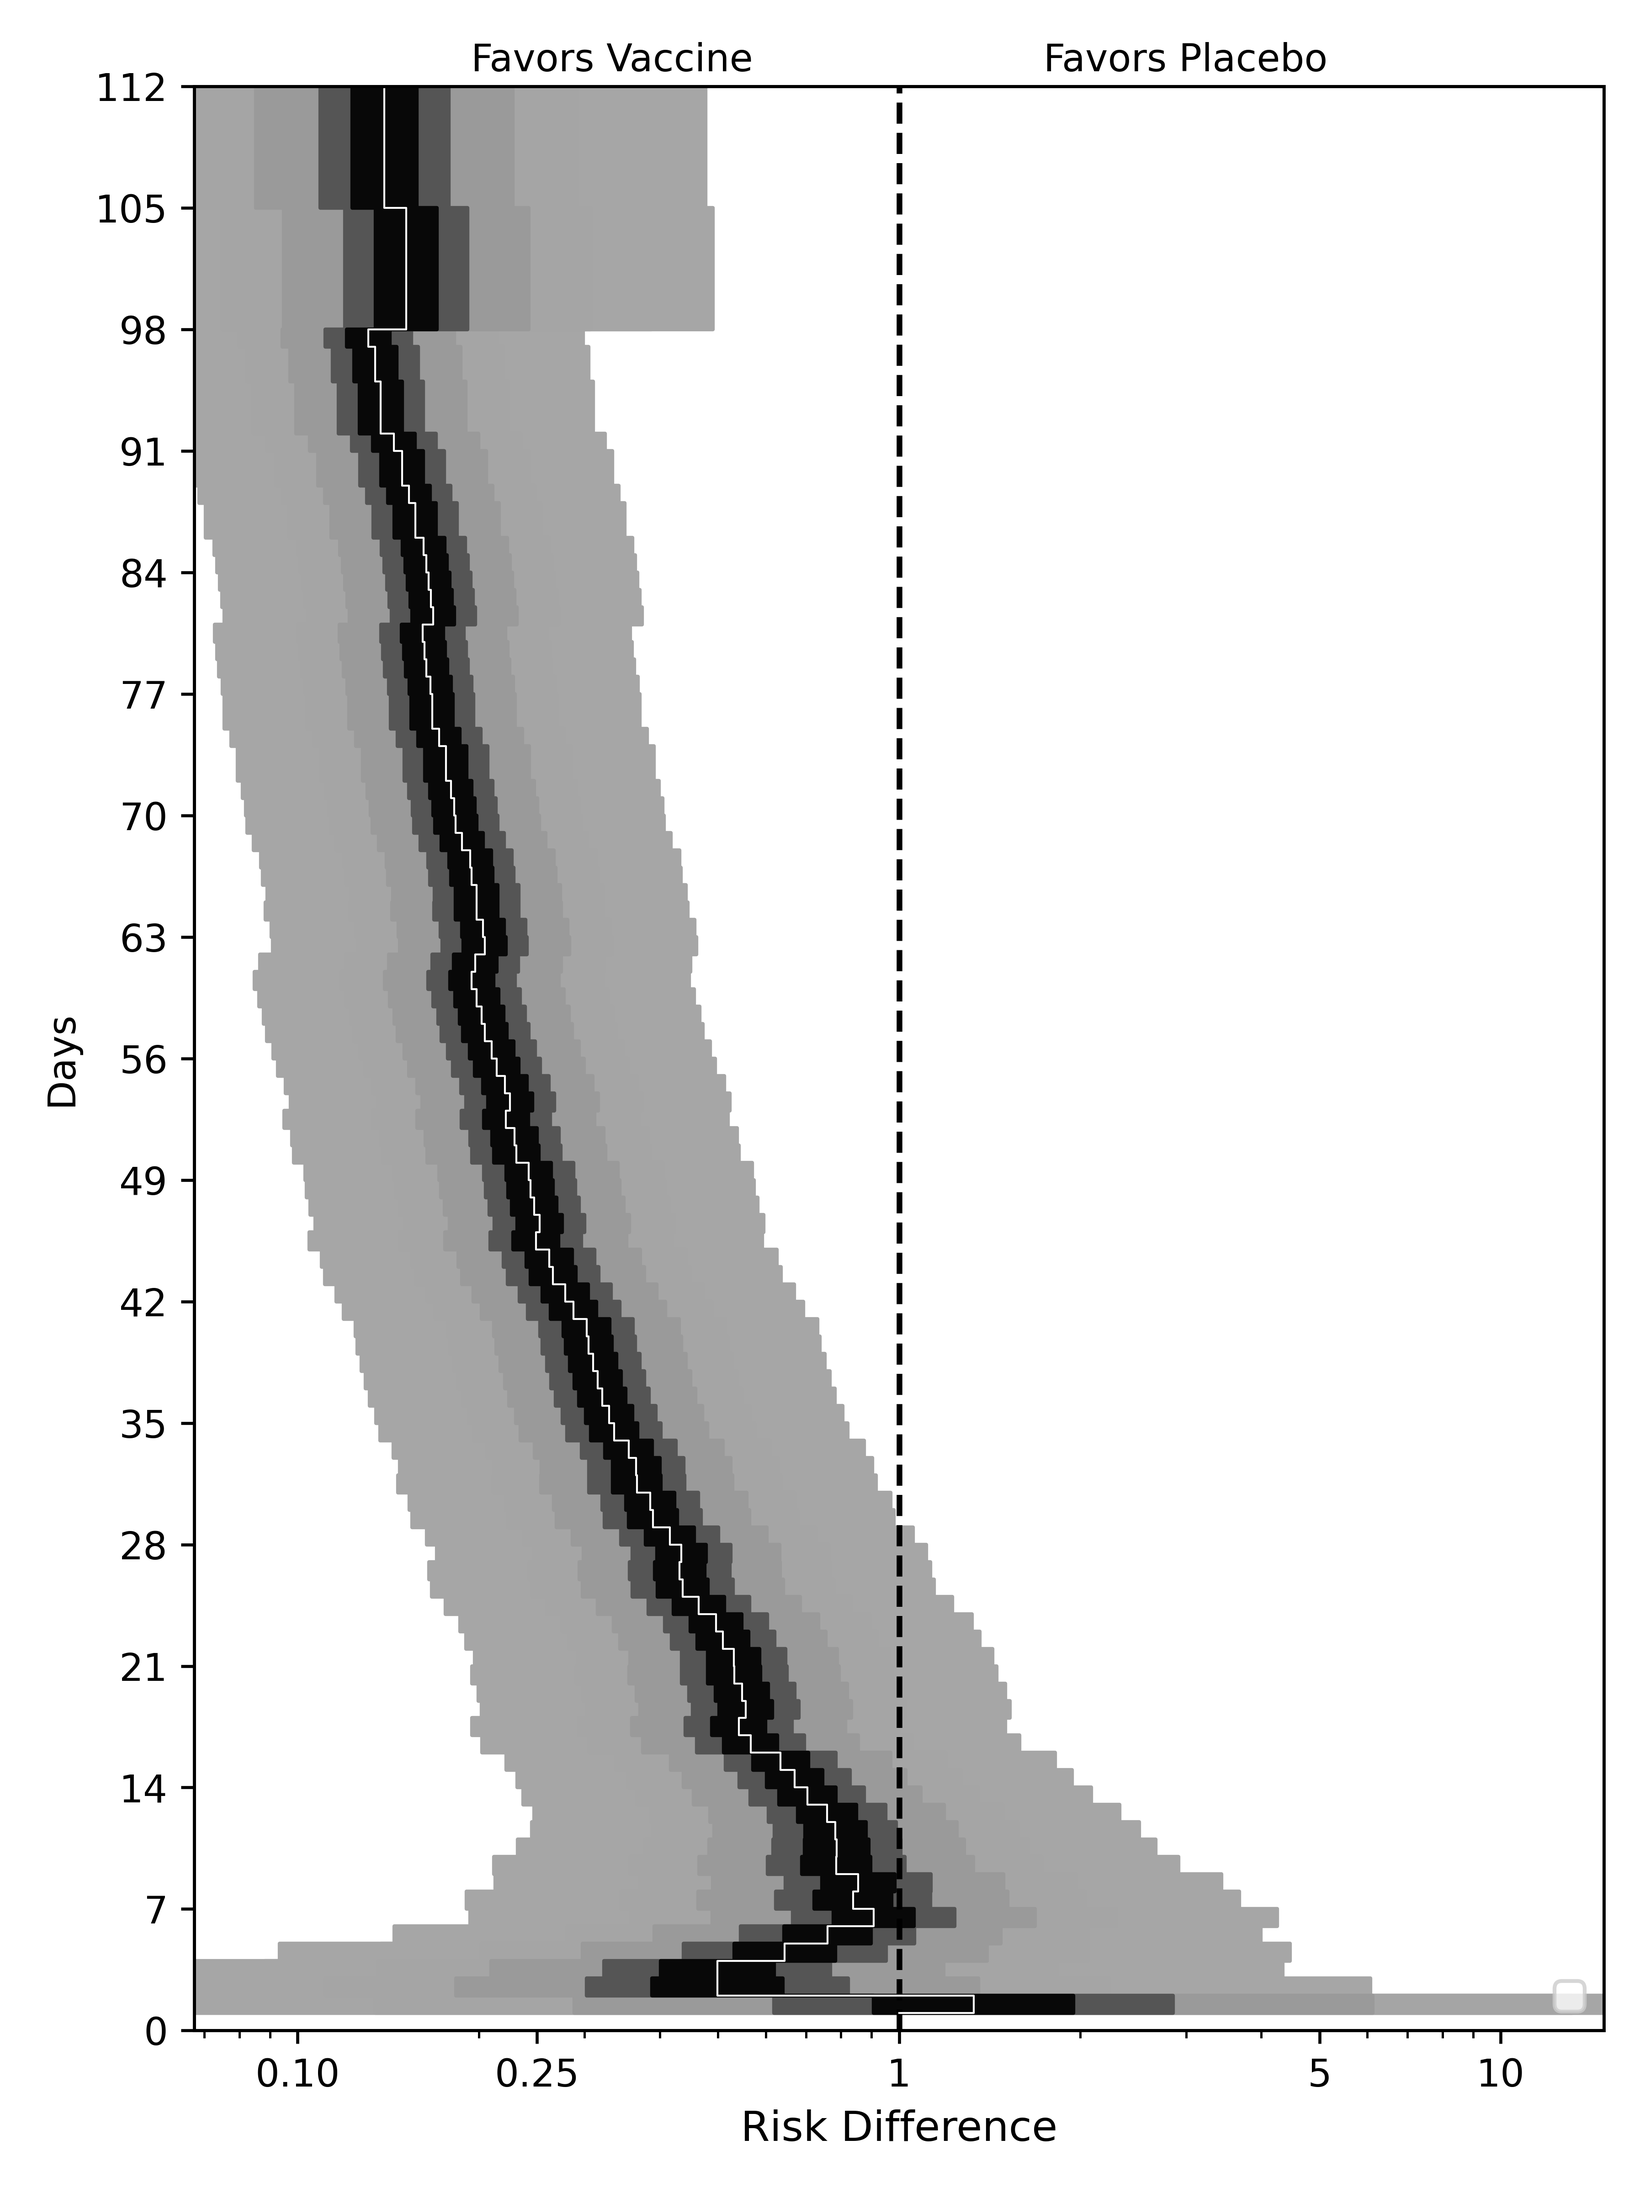
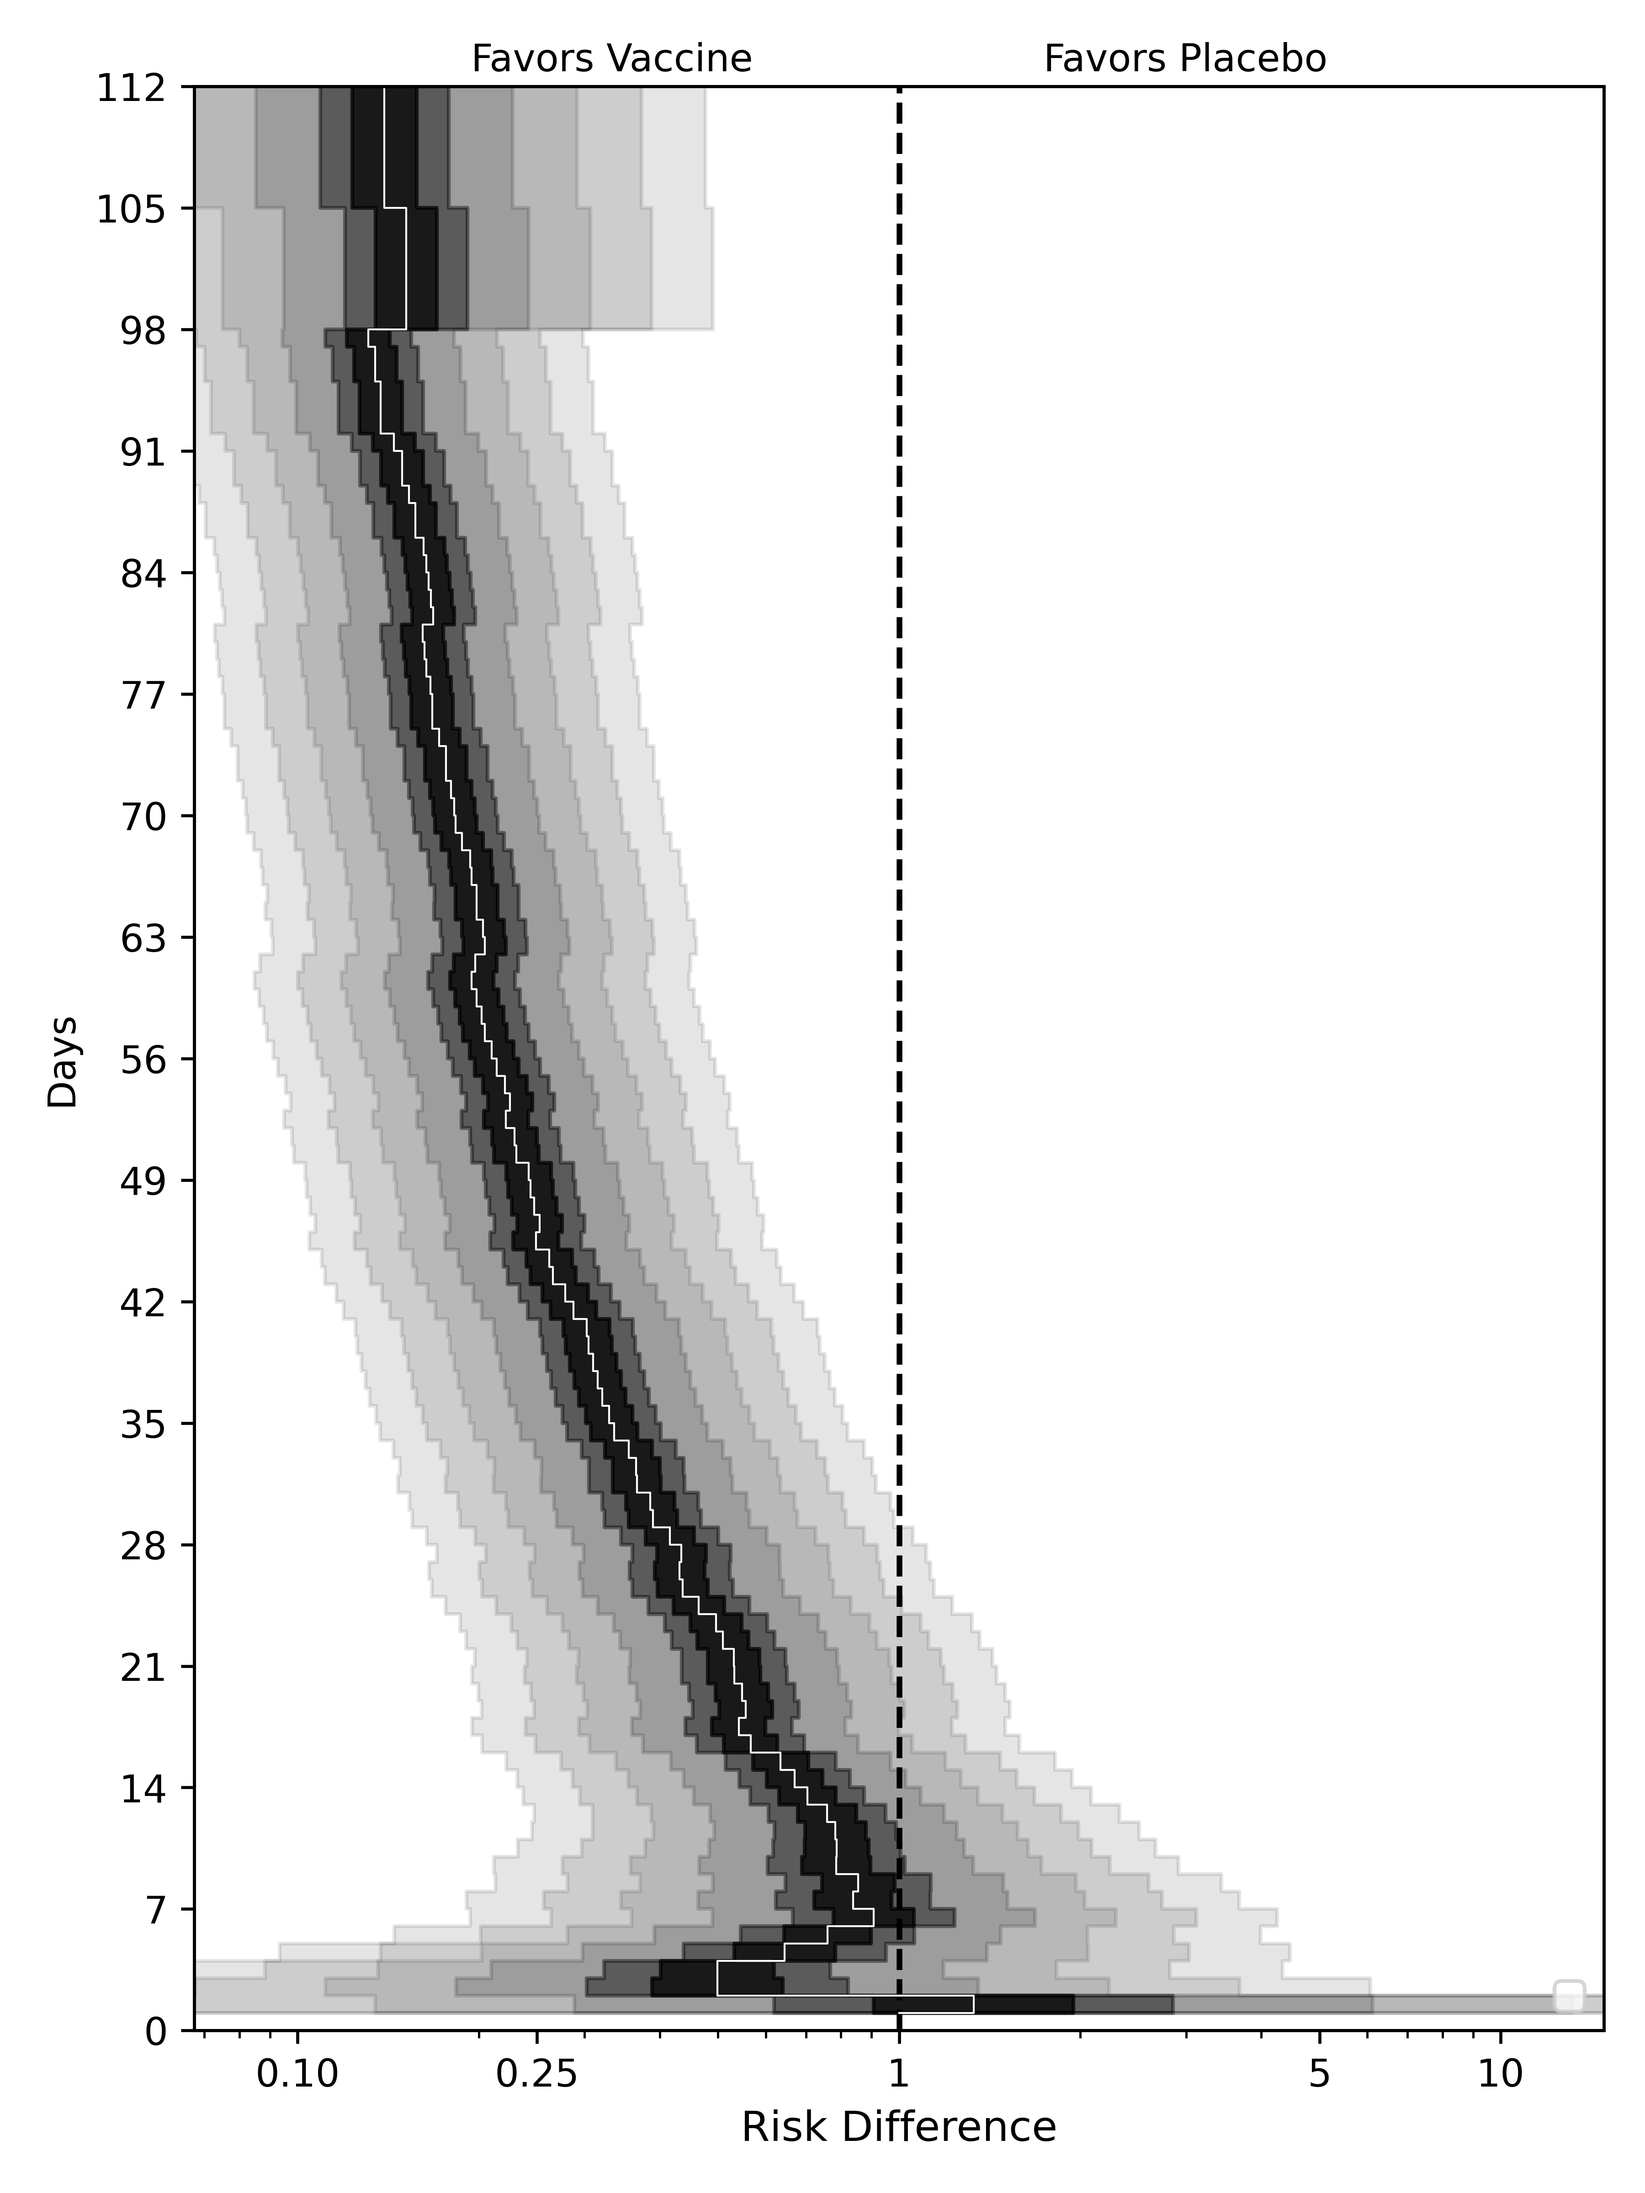
Added new pictures

Changed region(s): [[0.3111, 0.0312, 0.84, 0.9375], [0.0933, 0.0938, 0.4044, 0.9375]]

diff --git a/sierra_plots/sierra_plot_alpha.py b/sierra_plots/sierra_plot_alpha.py
@@ -118,7 +118,6 @@ def sierra_plot(
     # loop through as many steps as needed
     cmap = plt.get_cmap("gist_gray")
     # # # Functionally not needed, but helps Shaded step function for Risk Difference confidence intervals
-    STEP = -0.01
 
     # for a in np.arange(0.999, 0.001, STEP):
     for a in (
@@ -134,7 +133,7 @@ def sierra_plot(
             df[yvar],
             df[2 - a],
             df[a],
-            color=cmap(a),
+            color="k",
             alpha=1.1 - a,  # guarantees at least 0.1 alpha
             step="post",
         )
